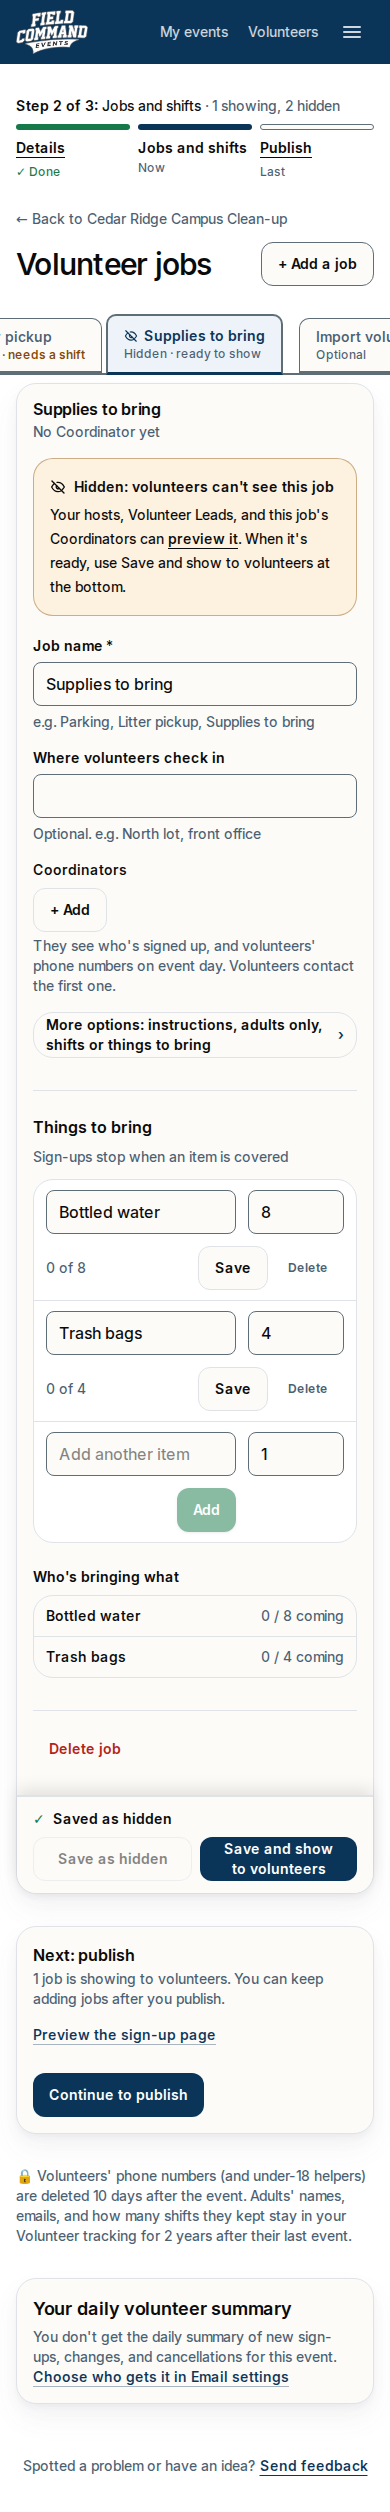
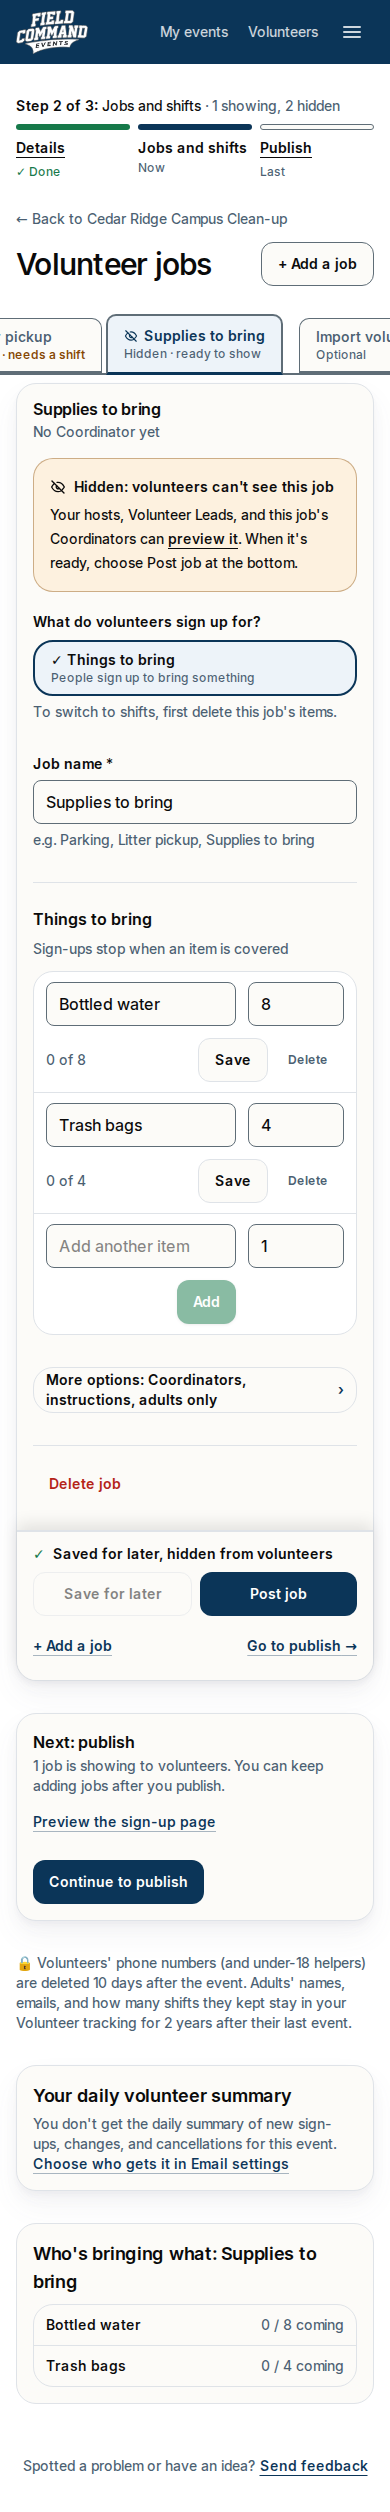
Job save bar: + Add a job and Go to publish, asking first when changes aren't saved
Claude-Session: https://claude.ai/code/session_012QSAnYf9D3RQG6GMrYDPnP

diff --git a/src/app/dashboard/events/[eventId]/forms.tsx b/src/app/dashboard/events/[eventId]/forms.tsx
@@ -11,7 +11,10 @@ import type { ActionState } from "@/lib/action-state";
 import { CHECKPOINT_KINDS, type CheckpointKind } from "@/lib/contest-day";
 import { formatDate } from "@/lib/time";
 import { StepNotice, useStepEdits } from "./volunteering/station-steps";
-import { copyDialog } from "@/components/confirm-dialog";
+import { confirmDialog, copyDialog } from "@/components/confirm-dialog";
+import Link from "next/link";
+import { useRouter } from "next/navigation";
+import type { JobLinks } from "./volunteering/job-visibility";
 
 type Action = (prev: ActionState, formData: FormData) => Promise<ActionState>;
 
@@ -47,7 +50,7 @@ export function StationForm({
   visibility,
 }: {
   /** A volunteer event's job: whether volunteers can see it, and whether it has a shift or a thing to bring yet. */
-  visibility?: { showing: boolean; ready: boolean };
+  visibility?: { showing: boolean; ready: boolean; links?: JobLinks };
   action: Action;
   initial?: StationValues;
   /** A volunteer event's job: says "job" and "shifts" (other events keep "sign-up" and "time slots"). */
@@ -314,7 +317,7 @@ function SignupBar({
   draft: boolean;
   remaining: string[];
   submitLabel: string;
-  visibility?: { showing: boolean; ready: boolean };
+  visibility?: { showing: boolean; ready: boolean; links?: JobLinks };
   /** A volunteer event's job: showing or hidden is its own choice, so a finished one just says it's saved. */
   job: boolean;
 }) {
@@ -382,8 +385,39 @@ function SignupBar({
           </div>
         )}
       </div>
+      {job && visibility?.links && <JobBarLinks links={visibility.links} dirty={dirty} />}
     </div>,
     slot,
+  );
+}
+
+/**
+ * Under a job's save buttons: "+ Add a job" and the next step, always in reach (the bar is pinned
+ * to the bottom of a phone's screen). With changes not saved yet, they ask before leaving.
+ */
+function JobBarLinks({ links, dirty }: { links: JobLinks; dirty: boolean }) {
+  const router = useRouter();
+  const leave = async (e: React.MouseEvent, href: string) => {
+    if (!dirty) return;
+    e.preventDefault();
+    const ok = await confirmDialog({
+      title: "Leave without saving?",
+      message: "This job has changes that aren't saved yet. Save for later or Post job keeps them.",
+      confirmLabel: "Leave without saving",
+      cancelLabel: "Stay here",
+    });
+    if (ok) router.push(href);
+  };
+  const cls = "inline-flex min-h-11 items-center text-sm font-semibold text-brand underline underline-offset-4";
+  return (
+    <div className="flex flex-wrap items-center justify-between gap-x-4">
+      <Link href={links.addJob} scroll={false} onClick={(e) => leave(e, links.addJob)} className={cls}>
+        + Add a job
+      </Link>
+      <Link href={links.next.href} onClick={(e) => leave(e, links.next.href)} className={cls}>
+        {links.next.label} →
+      </Link>
+    </div>
   );
 }
 

diff --git a/src/app/dashboard/events/[eventId]/volunteering/job-visibility.tsx b/src/app/dashboard/events/[eventId]/volunteering/job-visibility.tsx
@@ -3,6 +3,8 @@ import { setSignupKind, setStationShowing } from "../../../actions";
 import { ActionButton } from "../forms";
 import { EyeOffIcon } from "@/components/eye-off-icon";
 
+export type JobLinks = { addJob: string; next: { href: string; label: string } };
+
 export type JobVisibilityFacts = {
   showing: boolean;
   /** Its shifts (or things to bring): a job with none has nothing to sign up for yet. */
@@ -15,6 +17,8 @@ export type JobVisibilityFacts = {
   previewHref: string;
   /** The event is published: showing means volunteers see it now. */
   published: boolean;
+  /** Ways on from the job's save bar (it's always in reach on a phone): another job, and the next step. */
+  links: JobLinks;
 };
 
 /**

diff --git a/src/app/dashboard/events/[eventId]/volunteering/page.tsx b/src/app/dashboard/events/[eventId]/volunteering/page.tsx
@@ -445,6 +445,12 @@ export default async function VolunteeringPage({ params, searchParams }: PagePro
                         lastShowing: published && showingReady.length === 1 && showingReady[0].id === current.id,
                         previewHref,
                         published,
+                        links: {
+                          addJob: tabHref("new"),
+                          next: published
+                            ? { href: `/dashboard/events/${eventId}`, label: "Back to the event" }
+                            : { href: `/dashboard/events/${eventId}#publish`, label: "Go to publish" },
+                        },
                       }
                     : undefined
                 }

diff --git a/src/app/dashboard/events/[eventId]/station-panel.tsx b/src/app/dashboard/events/[eventId]/station-panel.tsx
@@ -203,7 +203,7 @@ export function StationPanel({
               coordinators={{ options: leadOptions, pending: pendingInvites, invite: inviteCoordinator.bind(null, eventId, station.id) }}
               trackUnsaved
               job={Boolean(job)}
-              visibility={job ? { showing: job.showing, ready: job.ready } : undefined}
+              visibility={job ? { showing: job.showing, ready: job.ready, links: job.links } : undefined}
               draft={!station.details_saved_at}
               remaining={[
                 ...(station.details_saved_at ? [] : ["finish the details"]),
